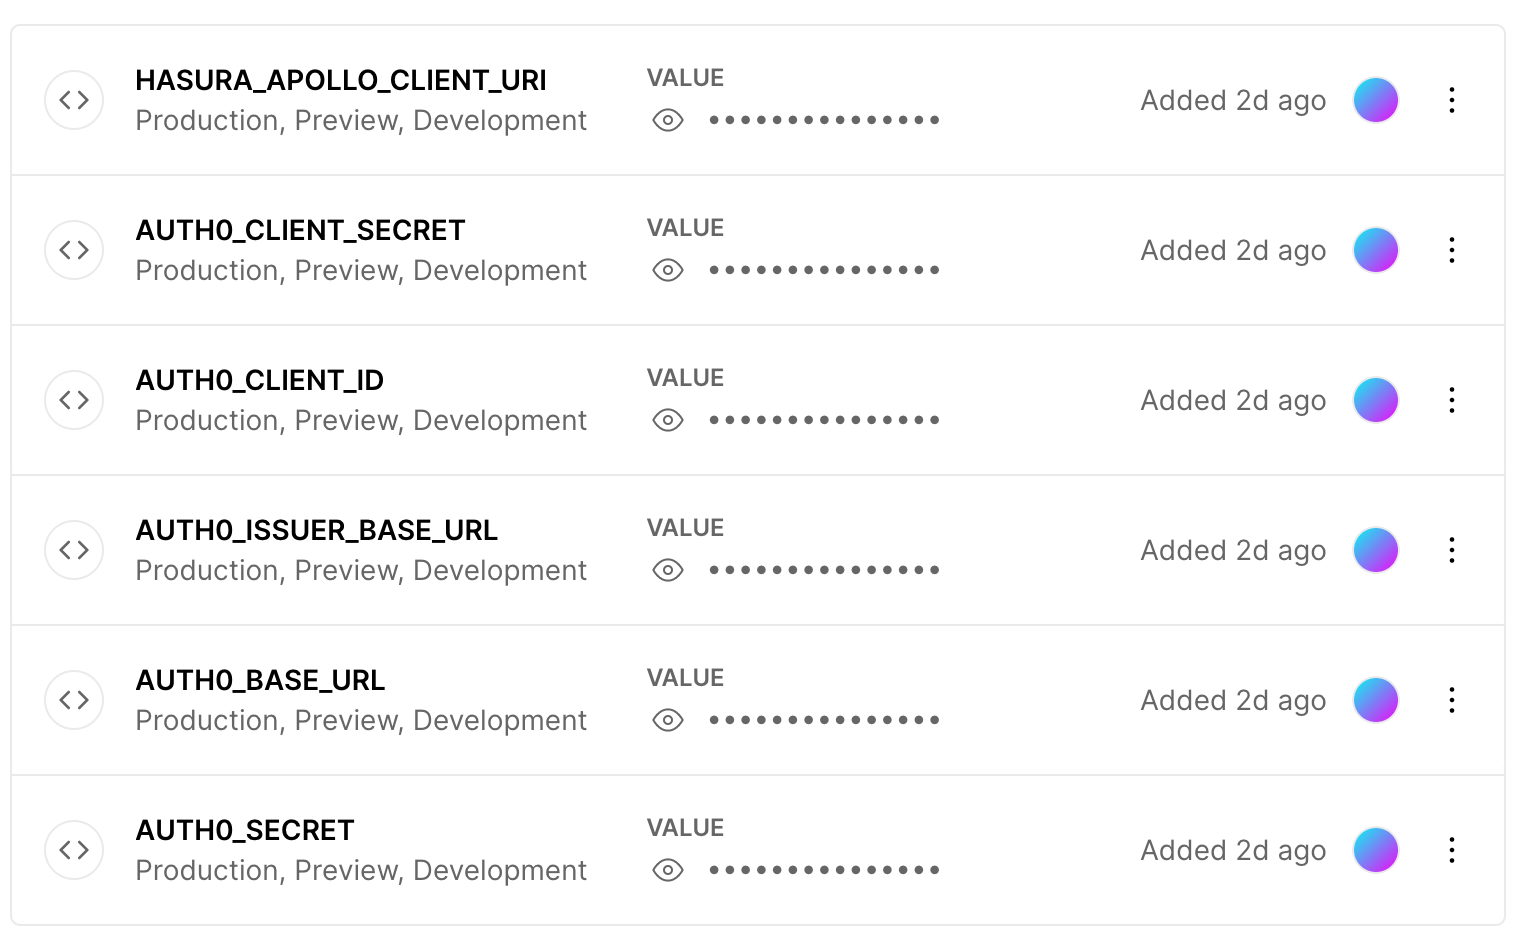
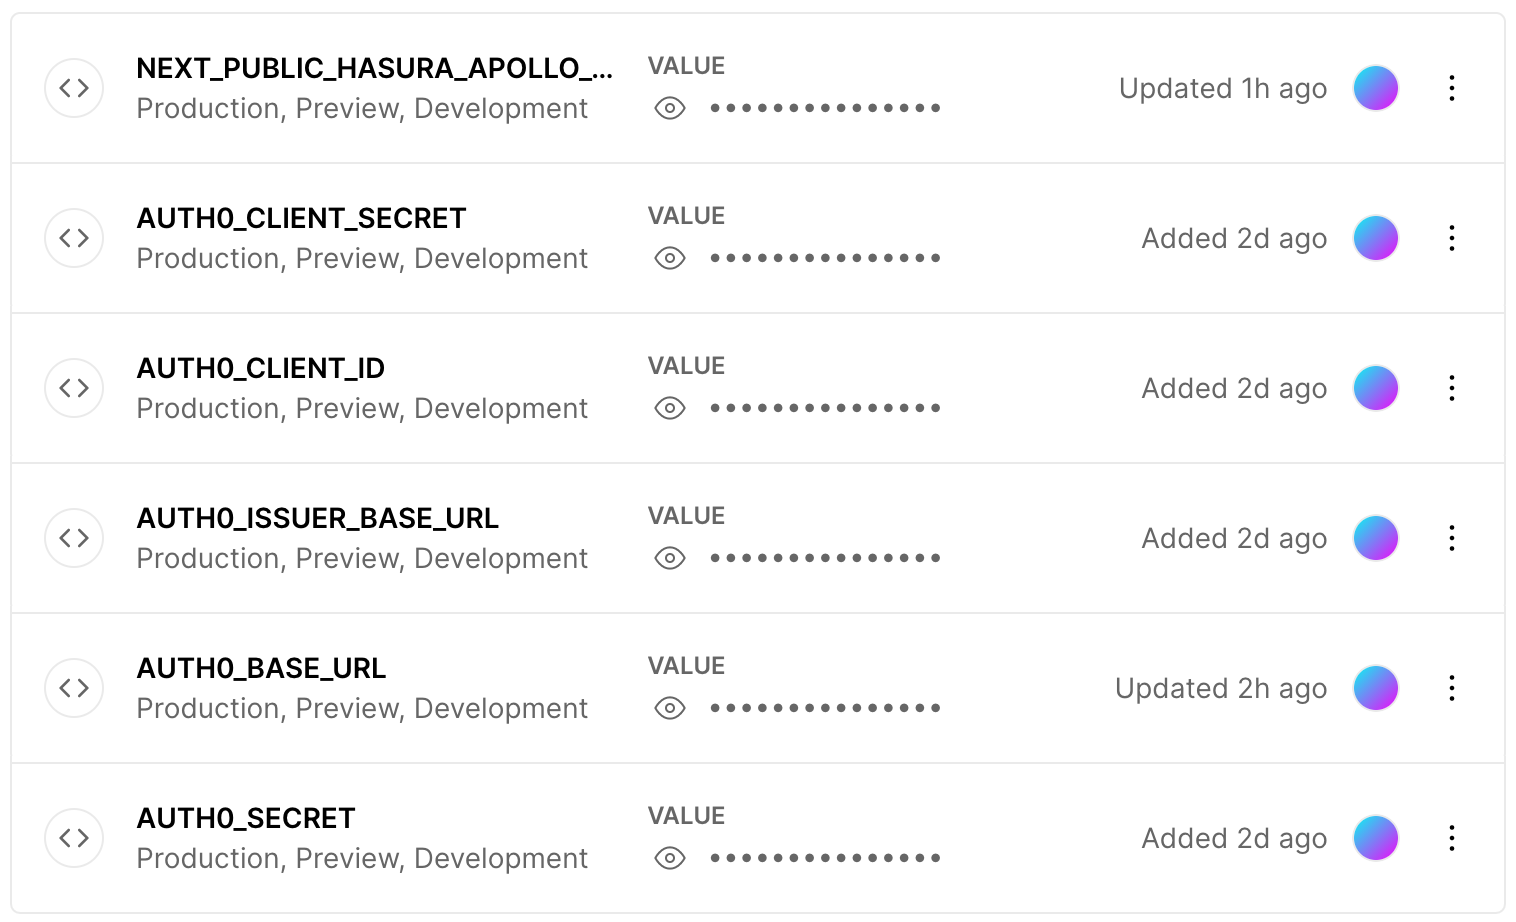
added apollo with hasura access

diff --git a/pages/_app.tsx b/pages/_app.tsx
@@ -1,14 +1,35 @@
+import { PropsWithChildren } from 'react'
 import type { AppProps } from 'next/app'
+
+import useSWR from 'swr'
 import { ChakraProvider } from '@chakra-ui/react'
 import { UserProvider } from '@auth0/nextjs-auth0'
+import { ApolloProvider } from '@apollo/client'
+
+import { createClient } from '../lib/apollo'
+import fetcher from '../lib/fetcher'
 
 function MyApp({ Component, pageProps }: AppProps) {
   return (
     <UserProvider>
-      <ChakraProvider>
-        <Component {...pageProps} />
-      </ChakraProvider>
+      <ApolloProviderComponent>
+        <ChakraProvider>
+          <Component {...pageProps} />
+        </ChakraProvider>
+      </ApolloProviderComponent>
     </UserProvider>
   )
 }
+
+const ApolloProviderComponent = ({ children }: { children: PropsWithChildren<{}> }) => {
+  const { data } = useSWR('/api/get-token', fetcher)
+  const client = createClient(data?.token)
+
+  return (
+    <ApolloProvider client={client}>
+      {children}
+    </ApolloProvider>
+  )
+}
+
 export default MyApp

diff --git a/lib/navbar.ts b/lib/navbar.ts
@@ -12,6 +12,7 @@ export const navItems: Array<NavItem> = [
   },
   {
     label: 'Articles',
+    href: '/articles',
     children: [
       {
         label: 'Article title 1',

diff --git a/README.md b/README.md
@@ -171,6 +171,14 @@ The rule variable can be copied from here on Hasura:
 And saved here on Auth0:
 ![add-rule-variable](docs/hasura/add-rule-variable.png)
 
+#### 9. Set `HASURA_GRAPHQL_UNAUTHORIZED_ROLE` to `anonymous` to allow non authenticated users to access Hasura API
+![add-unauthorized-env-var](docs/hasura/add-unauthorized-env-var.png)
+
+#### 10. Add following env variables to `.env.local`. Otherwise, it won't work in locally. (required for development)
+```
+#Hasura API URI
+NEXT_PUBLIC_HASURA_APOLLO_CLIENT_URI=API_URL
+```
 
 Reference:
 * https://hasura.io/docs/latest/graphql/core/guides/integrations/auth0-jwt.html
@@ -178,4 +186,7 @@ Reference:
 ### Vercel
 
 Add following ENV vars:
+
+Note: first env var is called `NEXT_PUBLIC_HASURA_APOLLO_CLIENT_URI`
+
 ![env-vars](docs/vercel/env-vars.png)
